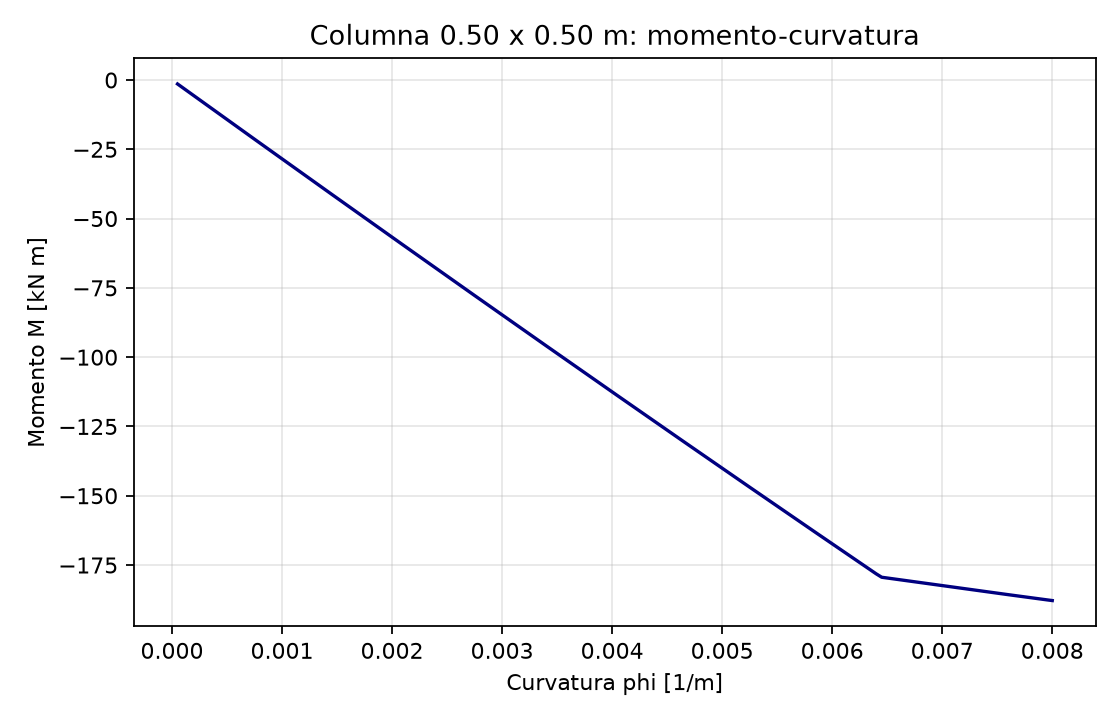
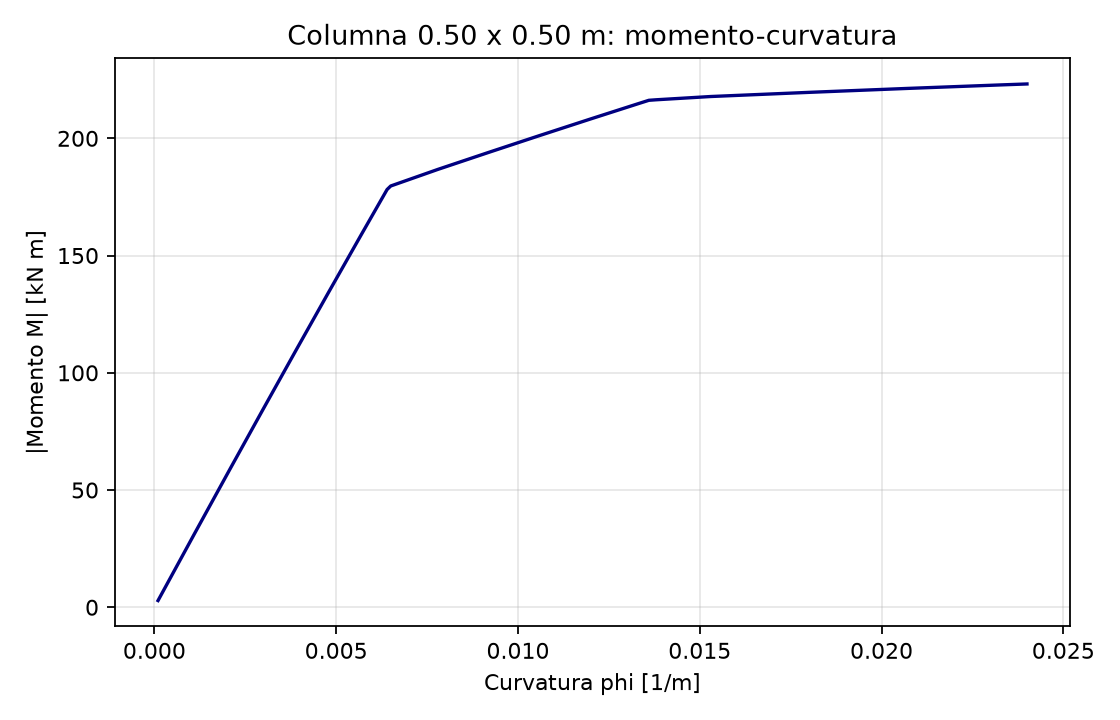
Corregir diagramas de capacidad

diff --git a/semana03/capacidad_ha.py b/semana03/capacidad_ha.py
@@ -115,11 +115,13 @@ def momento_curvatura():
     ops.constraints("Plain")
     ops.numberer("Plain")
     ops.algorithm("Newton")
-    ops.integrator("DisplacementControl", 2, 3, 0.00005)
+    # El rango llega mas alla de la curvatura de fluencia aproximada del acero
+    # para que se vea el cambio de rigidez, si la seccion converge hasta ahi.
+    ops.integrator("DisplacementControl", 2, 3, 0.0001)
     ops.analysis("Static")
 
     phi, momento = [], []
-    for _ in range(160):
+    for _ in range(240):
         if ops.analyze(1) != 0:
             break
         phi.append(ops.nodeDisp(2, 3))
@@ -128,20 +130,46 @@ def momento_curvatura():
 
 
 def puntos_interaccion(fibras):
-    """Genera puntos PM por compatibilidad de deformaciones."""
-    puntos = []
-    # Carga axial casi pura: M es cercano a cero.
-    for epsilon in [0.0, -0.0005, -0.001, -0.002, -0.003, -0.004, -0.005]:
-        P, M = respuesta_fibras(epsilon, 0.0, fibras)
-        puntos.append((-P, abs(M)))
+    """Genera una envolvente P-M variando la profundidad del eje neutro."""
+    # Extremos de carga axial pura: M es cero por simetria.
+    P_tension, _ = respuesta_fibras(0.005, 0.0, fibras)
+    P_compresion, _ = respuesta_fibras(-0.005, 0.0, fibras)
+    puntos = [(-P_tension, 0.0)]
 
-    # Flexion con deformacion maxima de compresion de 0.003.
-    for c in [0.03, 0.05, 0.08, 0.12, 0.20, 0.35, 0.60, 1.0, 2.0]:
+    # En cada punto intermedio se impone epsilon_cu=-0.003 en la fibra superior.
+    # El eje neutro queda a una profundidad c desde esa fibra.
+    profundidades = [0.02 * (3.0 / 0.02) ** (i / 39) for i in range(40)]
+    for c in profundidades:
         phi = 0.003 / c
-        epsilon_0 = 0.003 - phi * (H / 2)
+        epsilon_0 = -0.003 + phi * H / 2
         P, M = respuesta_fibras(epsilon_0, phi, fibras)
         puntos.append((-P, abs(M)))
-    return puntos
+
+    puntos.append((-P_compresion, 0.0))
+    return envolvente_superior(puntos)
+
+
+def envolvente_superior(puntos):
+    """Conserva el borde exterior superior de los puntos P-M."""
+    ordenados = sorted(puntos, key=lambda punto: punto[0])
+    unicos = []
+    for punto in ordenados:
+        if unicos and abs(punto[0] - unicos[-1][0]) < 1e-9:
+            if punto[1] > unicos[-1][1]:
+                unicos[-1] = punto
+        else:
+            unicos.append(punto)
+
+    def cruz(o, a, b):
+        return ((a[0] - o[0]) * (b[1] - o[1])
+                - (a[1] - o[1]) * (b[0] - o[0]))
+
+    envolvente = []
+    for punto in unicos:
+        while len(envolvente) >= 2 and cruz(envolvente[-2], envolvente[-1], punto) >= 0:
+            envolvente.pop()
+        envolvente.append(punto)
+    return envolvente
 
 
 def main():
@@ -152,9 +180,9 @@ def main():
         raise RuntimeError("OpenSees no pudo completar el analisis M-phi")
 
     plt.figure(figsize=(7, 4.5))
-    plt.plot(phi, momento, color="navy")
+    plt.plot(phi, [abs(m) for m in momento], color="navy")
     plt.xlabel("Curvatura phi [1/m]")
-    plt.ylabel("Momento M [kN m]")
+    plt.ylabel("|Momento M| [kN m]")
     plt.title("Columna 0.50 x 0.50 m: momento-curvatura")
     plt.grid(True, alpha=0.3)
     plt.tight_layout()
@@ -164,7 +192,9 @@ def main():
     puntos = puntos_interaccion(fibras)
     axial, momentos = zip(*puntos)
     plt.figure(figsize=(7, 4.5))
+    # Se dibujan las dos ramas simetricas de flexion positiva y negativa.
     plt.plot(momentos, axial, "o-", color="darkred")
+    plt.plot([-m for m in momentos], axial, "o-", color="darkred")
     plt.xlabel("Momento M [kN m]")
     plt.ylabel("Compresion -P [kN]")
     plt.title("Interaccion P-M aproximada")

diff --git a/semana03/README.md b/semana03/README.md
@@ -550,9 +550,9 @@ Reaccion: OK
 Fuerza interna: OK
 ```
 
-Con `capacidad_ha.py` se generan `160` puntos M-phi y `16` puntos de
-interaccion P-M. La capacidad maxima aproximada de momento obtenida en la
-corrida actual es de `187.81 kN m` en valor absoluto.
+Con `capacidad_ha.py` se generan `240` puntos M-phi y una envolvente P-M de
+`10` puntos. La capacidad maxima aproximada de momento obtenida en la corrida
+actual es de `223.19 kN m` en valor absoluto.
 
 Estos numeros pueden cambiar si el profesor entrega otros parametros. La
 interpretacion debe hacerse siempre junto con los valores mostrados al inicio
